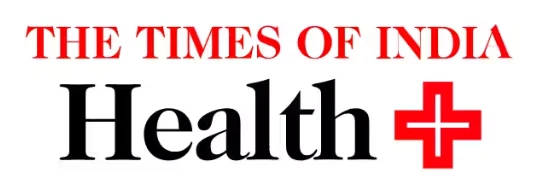
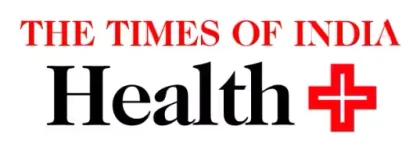
Perf: optimize mobile images (~700KB saved), fix LCP preload, defer GTM & FB Pixel

diff --git a/index.html b/index.html
@@ -2,8 +2,7 @@
 <html lang="en">
 
 <head>
-  <!-- Google tag (GTM-TDTGKL7X) -->
-  <script async src="https://www.googletagmanager.com/gtm.js?id=GTM-TDTGKL7X"></script>
+  <!-- Google tag (GTM-TDTGKL7X) dataLayer init -->
   <script>
     window.dataLayer = window.dataLayer || [];
     function gtag(){dataLayer.push(arguments);}
@@ -93,6 +92,13 @@
     rel="preload"
     as="image"
     href="/galleri/home-phone-version-banner.webp"
+    media="(max-width: 768px)"
+    fetchpriority="high"
+  />
+  <link
+    rel="preload"
+    as="image"
+    href="/galleri/brochure/knee-replacement-guide.webp"
     media="(max-width: 768px)"
     fetchpriority="high"
   />
@@ -212,20 +218,41 @@
     }
   </script>
 
-  <!-- Meta Pixel Code -->
+  <!-- Deferred 3rd-party Analytics (GTM + Meta Pixel) so FCP/LCP are unblocked -->
   <script>
-    !function(f,b,e,v,n,t,s)
-    {if(f.fbq)return;n=f.fbq=function(){n.callMethod?
-    n.callMethod.apply(n,arguments):n.queue.push(arguments)};
-    if(!f._fbq)f._fbq=n;n.push=n;n.loaded=!0;n.version='2.0';
-    n.queue=[];t=b.createElement(e);t.async=!0;
-    t.src=v;s=b.getElementsByTagName(e)[0];
-    s.parentNode.insertBefore(t,s)}(window, document,'script',
-    'https://connect.facebook.net/en_US/fbevents.js');
-    fbq('init', '1836117594471066');
-    fbq('track', 'PageView');
+    (function () {
+      var loaded = false;
+      function loadThirdPartyTags() {
+        if (loaded) return;
+        loaded = true;
+
+        // Google Tag Manager (GTM-TDTGKL7X)
+        var gtm = document.createElement('script');
+        gtm.async = true;
+        gtm.src = 'https://www.googletagmanager.com/gtm.js?id=GTM-TDTGKL7X';
+        document.head.appendChild(gtm);
+
+        // Meta Pixel Code
+        !function(f,b,e,v,n,t,s)
+        {if(f.fbq)return;n=f.fbq=function(){n.callMethod?
+        n.callMethod.apply(n,arguments):n.queue.push(arguments)};
+        if(!f._fbq)f._fbq=n;n.push=n;n.loaded=!0;n.version='2.0';
+        n.queue=[];t=b.createElement(e);t.async=!0;
+        t.src=v;s=b.getElementsByTagName(e)[0];
+        s.parentNode.insertBefore(t,s)}(window, document,'script',
+        'https://connect.facebook.net/en_US/fbevents.js');
+        fbq('init', '1836117594471066');
+        fbq('track', 'PageView');
+      }
+
+      ['pointerdown', 'keydown', 'scroll', 'touchstart'].forEach(function (evt) {
+        window.addEventListener(evt, loadThirdPartyTags, { once: true, passive: true });
+      });
+      window.addEventListener('load', function () {
+        setTimeout(loadThirdPartyTags, 2000);
+      });
+    })();
   </script>
-  <!-- End Meta Pixel Code -->
 </head>
 
 <body>

diff --git a/src/pages/HomePage.jsx b/src/pages/HomePage.jsx
@@ -118,7 +118,7 @@ export default function HomePage() {
           Dr. Harshil Shah – Orthopaedic, Hip, Knee &amp; Shoulder Surgeon in Ahmedabad
         </h1>
         <picture style={{ display: 'block', width: '100%' }}>
-          <source media="(max-width: 768px)" srcSet="/galleri/home-phone-version-banner.webp" />
+          <source media="(max-width: 768px)" srcSet="/galleri/home-phone-version-banner.webp" width="824" height="298" />
           <img
             src="/galleri/homepage-herosection.webp"
             alt="Dr. Harshil Shah - Hip, Knee &amp; Shoulder Surgeon"
@@ -126,6 +126,8 @@ export default function HomePage() {
             loading="eager"
             fetchPriority="high"
             decoding="async"
+            width="2172"
+            height="724"
           />
         </picture>
       </section>
@@ -152,7 +154,7 @@ export default function HomePage() {
                     src={cond.image}
                     alt={cond.title}
                     className="mock-condition-img"
-                    loading="lazy"
+                    loading={cond.id === 'knee' ? 'eager' : 'lazy'}
                     width="400"
                     height="250"
                   />
@@ -175,7 +177,9 @@ export default function HomePage() {
                     src={conditionsData[currentConditionIndex].image}
                     alt={conditionsData[currentConditionIndex].title}
                     className="mock-condition-img"
-                    loading="lazy"
+                    loading={currentConditionIndex === 0 ? 'eager' : 'lazy'}
+                    fetchPriority={currentConditionIndex === 0 ? 'high' : 'auto'}
+                    decoding="async"
                     width="400"
                     height="250"
                   />
@@ -787,6 +791,8 @@ export default function HomePage() {
                       alt={`${locationsData[currentLocationIndex].title} Logo`}
                       className={locationsData[currentLocationIndex].logoClass}
                       loading="lazy"
+                      width="140"
+                      height="45"
                     />
                   </div>
                 </div>
